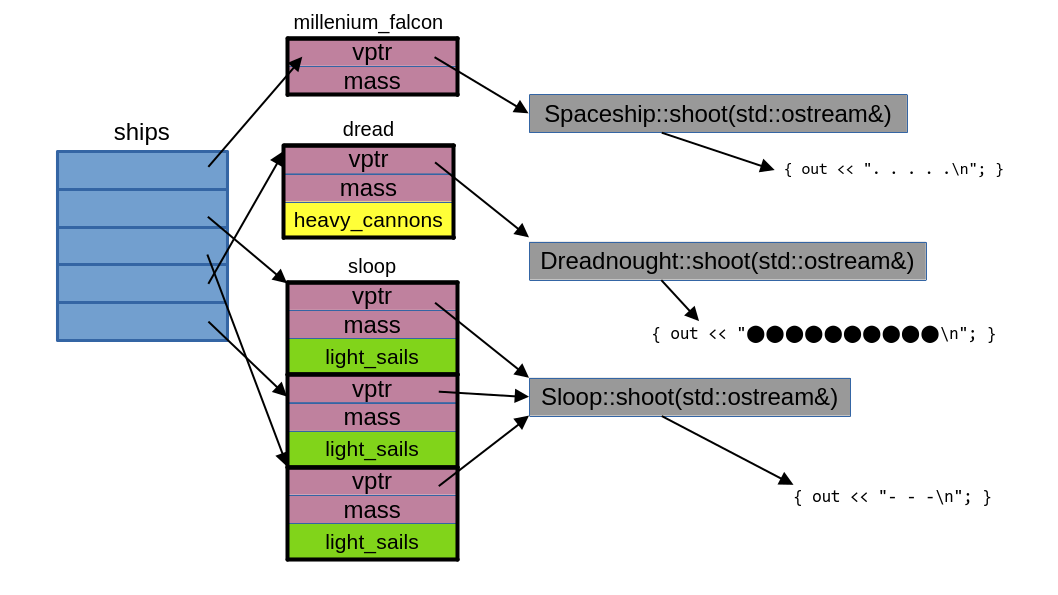
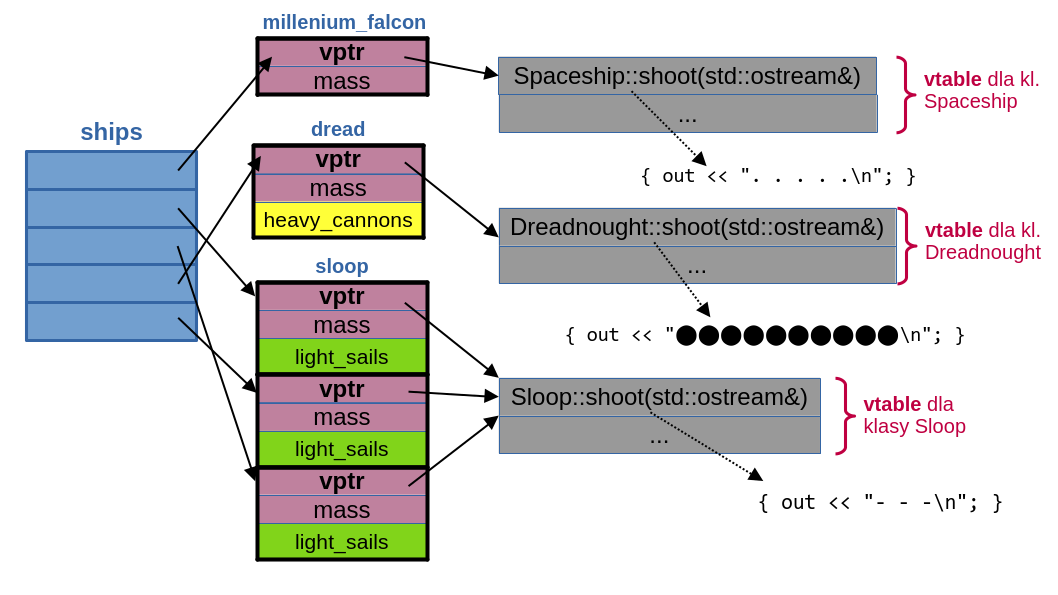
drobne zmiany

diff --git a/14-funkcje.wirtualne.md b/14-funkcje.wirtualne.md
@@ -1,5 +1,9 @@
 # Funkcje wirtualne
 
+## 0. Motywacja
+
+TBA
+
 ## 1. Co to są funkcje wirtualne?
 
 Najprostsza definicja obiektu brzmi: "obiekt jest to fragment pamięci operacyjnej". Nie jest to oczywiście definicja wyczerpująca. W szczególności, język C++ to język z silną statyczną kontrolą typów, dlatego z każdym obiektem związany jest jego typ. Na najbardziej podstawowym poziomie typ określony jest przez strukturę pamięci przypisanej obiektowi - obiekt z tej perspektywy jawi się jako zestaw składowych ("właściwości", ang. *properties*) o określonym, bardziej prostym typie, który z kolei informuje kompilator, jakie operacje na danej składowej są dopuszczalne. Na tym poziomie , obiekt jawi się jako struktura, np.:
@@ -75,18 +79,21 @@ Można by to wykorzystać następująco. Do klasy bazowej można dodać jakieś 
 #include <iostream>
 #include <vector>
 
+// klasa bazowa: dowolny wojskowy okręt kosmiczny 
 struct Spaceship
 {
     double mass = 1.0;
     virtual void shoot(std::ostream& out) { out << ". . . . .\n"; } /// <--- składowa wirtualna
 };
 
-struct Dreadnought : public Spaceship // krążownik
+// klasa pochodna Dreadnought (krążownik) wyprowadzona z Spaceship
+struct Dreadnought : public Spaceship  
 {
     int heavy_cannons = 10000;
     void shoot(std::ostream& out) override { out << "⬤⬤⬤⬤⬤⬤⬤⬤⬤⬤\n"; } /// <--- override
 };
 
+// klasa pochodna Sloop (korweta) wyprowadzona z Spaceship
 struct Sloop : public Spaceship // korweta
 {
     int light_sails = 2;
@@ -111,9 +118,9 @@ int main()
 }
 ```
 
-Widzimy tutaj te same klasy po lekkiej modyfikacji. W klasie podstawowej pojawiła się funkcja składowa `shoot`, której nadano atrybut **`virtual`**. Funkcje o identycznych sygnaturach (`void shoot(std::ostream& out)`) zdefiniowano też w obu klasach pochodnych, jednak każdej inaczej. W funkcji `main` utworzono 5 obiektów różnych klas (z czego 3 w tablicy `sloop`) a także wektor wskaźników do klasy podstawowej, czyli do `Spaceship`. Wektor ten zainicjalizowano adresami tych obiektów, a następnie wywołano na nim funkcję `shoot_all`, która na każdym obiekcie wskazywanym przez zmienne wskaźnikowe umieszczone w wektorze wywołuje ich składową `shoot`. Jest to bardzo uproszczony schemat tego, jak można by zorganizować "strzelanie" w grze komputerowej z różnymi rodzajami statków kosmicznych (postaci, pojazdów itp.). 
+Widzimy tutaj te same klasy po lekkiej modyfikacji. W klasie podstawowej pojawiła się funkcja składowa `shoot`, której nadano atrybut **`virtual`**. Funkcje o identycznych sygnaturach (`void shoot(std::ostream& out)`) zdefiniowano też w obu klasach pochodnych, jednak każdej inaczej. W funkcji `main` utworzono 5 obiektów różnych klas (z czego 3 w tablicy `sloop`) a także wektor wskaźników do klasy podstawowej, czyli do `Spaceship`. Wektor ten zainicjalizowano adresami tych obiektów, a następnie wywołano na nim funkcję `shoot_all`, która na każdym obiekcie wskazywanym przez zmienne wskaźnikowe umieszczone w wektorze wywołuje ich składową `shoot`. Jest to bardzo uproszczony schemat tego, jak można by zorganizować "strzelanie" w grze komputerowej z różnymi rodzajami statków kosmicznych (postaci, pojazdów itp.). Tutaj przyjąłem, że dowolny okręt wojenny strzela jakimś lekkimi granatami z piątego wymiaru (". . . "), krążownik solidnymi pociskami z antymaterią ("⬤⬤⬤"), a korweta pojedynczym działkiem laserowym ("- - -"), ale w wyobraźni widzimy solidną grafikę do każdego z tych typów strzałów. 
 
-W powyższym kodzie wykorzystujemy to, że dziedziczenie realizuje relację A jest B. W szczególności, każdy obiekt klasy `Dreadnought` jest jednocześnie obiektem klasy `Sopaceship`. Podobnie każdy obiekt klasy `Sloop` także jest jednocześnie obiektem klasy `Spaceship`. Dlatego w wektorze wskaźników do `Spaceship` można umieścić wskaźniki na każdą z tych klas - bez łamania zasady silnej statycznej kontroli typów. Kompilator podczas kompilacji funkcji `shoot_all` zakłada jednak, że nie zna całości programu - kompilując jakąś funkcję, nie zagląda do treści innych funkcji (z wyjątkiem funkcji `inline`). Dlatego skompilowany kod pętli 
+W powyższym kodzie wykorzystujemy to, że dziedziczenie realizuje relację A jest B. W szczególności, każdy obiekt klasy `Dreadnought` jest jednocześnie obiektem klasy `Sopaceship` (czyli: każdy kosmiczny krążownik jest kosmicznym okrętem wojennym). Podobnie każdy obiekt klasy `Sloop` także jest jednocześnie obiektem klasy `Spaceship` (czyli każda kosmiczna korweta jest kosmicznym okrętem wojennym). Dlatego w wektorze wskaźników do `Spaceship` można umieścić wskaźniki na każdą z tych klas - bez łamania zasady silnej statycznej kontroli typów. Kompilator podczas kompilacji funkcji `shoot_all` zakłada jednak, że nie zna całości programu - kompilując jakąś funkcję, nie zagląda do treści innych funkcji (z wyjątkiem funkcji `inline`). Dlatego skompilowany kod pętli 
 
 ```c++  
 	for (const auto &s : p_ships)
@@ -339,4 +346,8 @@ Która funkcja `shoot` zostanie wywołana w wyrażeniu `s->shoot`? Odpowiedź na
 - Jeżeli `Spaceship::shoot` nie jest zadeklarowana jako funkcja wirtualna, to kompilator zastosuje łączenie statyczne i silną kontrolę typów i to właśnie ona będzie wywołana dla każdego elementu tablicy `p_ships`. Zawsze. 
 - Jeżeli  `Spaceship::shoot` zadeklarowano jako funkcje wirtualną, to kompilator wygeneruje kod, w którym dla każdego wskaźnika `s` wywołana zostanie funkcja z rzeczywistej klasy wskazywanego przezeń obiektu, czyli `*s` (lub kod mający identyczny efekt, jeżeli kompilator stosuje agresywną optymalizację kodu). Ten rzeczywisty typ ustalany jest przez konstruktor obiektu i odczytywany podczas opracowywania wyrażenia `s->shoot`.  Konstruktor jako jedyna funkcja ma prawo modyfikowania (w tym konkretnym przypadku: inicjalizowania) składowej `vptr`.  Wartość tego wskaźnika używana jest wyłącznie podczas wywoływania funkcji składowych jako funkcji wirtualnych. 
 
-Jak widać, w tym drugim przypadku informacja o wywoływanej funkcji zaszyta jest częściowo w jego typie, a częściowo w obiekcie, natopiast w przypadku pierwszym - wyłącznie w jego typie. Przypomnę, że takie dynamiczne łączenie funkcji jest fundamentem programowania obiektowego: obiekt niesie ze sobą komplet danych i operujących na nich funkcji.      
+Jak widać, w tym drugim przypadku informacja o wywoływanej funkcji zaszyta jest częściowo w jego typie, a częściowo w obiekcie, natopiast w przypadku pierwszym - wyłącznie w jego typie. Przypomnę, że takie dynamiczne łączenie funkcji jest fundamentem programowania obiektowego: obiekt niesie ze sobą komplet danych i operujących na nich funkcji. 
+
+## 7. Podsumowanie
+
+TBA
